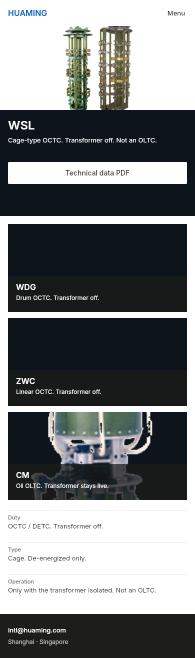
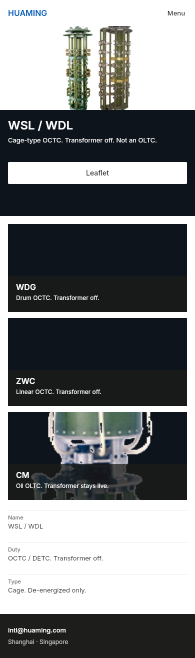
copy: WSL / WDL on the type page; CTA Leaflet
Cycle-8 390 pass. WSL file is a leaflet, not technical data.
More 390 list adds ZWC and SHM-D.

diff --git a/sketches/mr-openpencil-2026-08-19/reviews/cycle-8-ux.md b/sketches/mr-openpencil-2026-08-19/reviews/cycle-8-ux.md
@@ -1,0 +1,33 @@
+# Cycle 8 — UX
+
+Vs LOOP lock: chrome → stage (photo or dark band, type bottom-left, one CTA) → photo teasers (full-bleed + shade or empty dark band) → list last. Veto polaroid. Veto white + H1 + table.
+
+Read: remaining 390s + WSL desk. WSL CTA is Leaflet (`WSL-Leaflet.pdf`). Contact 390: form is the action, no stage button. WDG / ZWC and SHM-D / SHM-X empty dark on purpose.
+
+## Must-fix
+
+None. Every 390 has a stage. Teasers are full-bleed + shade or empty dark, not polaroid. No white + H1 + table. List/spec after teasers.
+
+## Should-fix
+
+1. More 390 All types: six rows, stops at WDG. Desk still lists CZ, SHGV, HMDK, HWDK, ZWC, SHM-D / SHM-X / SHM-KX, ET-SZ6, HMC-3C, ZXJY. Teaser 3/4 captions some of those names; the list does not.
+
+2. Careers 390: Singapore and Write are empty dark. Legal (no still). Two of three teasers have no photo.
+
+## Pass / fail vs MR
+
+| Page | Verdict | Why |
+|------|---------|-----|
+| Home 390 | **Pass** | Photo stage, type BL, dek, one CTA (`Find a type`). Four full-bleed type teasers. |
+| Products 390 | **Pass** | Photo stage, type BL, one CTA. 4 family photoTeasers, All types last. |
+| Downloads 390 | **Pass** | Factory stage, type BL, CTA `Find a type`. 3 kind teasers, file list last. WSL row is Leaflet. |
+| Contact 390 | **Pass** | Factory stage, type BL, no stage button. 3 job photo teasers, form is the action. |
+| About 390 | **Pass** | Factory stage, type BL, one CTA. Numbers, Shanghai photo, Singapore empty dark. |
+| Careers 390 | **Pass** | Factory stage, `Work on the switch.`, one CTA. Shanghai photo; SG + Write empty dark. |
+| WSL 390 | **Pass** | Studio split (white JPEG), type, CTA Leaflet. WDG / ZWC empty dark, CM photo, spec last. |
+| WSL desk | **Pass** | Chrome, dark + white JPEG, type BL, CTA Leaflet. WDG / ZWC empty dark, CM photo, spec last. |
+| CMA7 390 | **Pass** | Cabinet stage, type BL, CTA Operating instructions. HWV photo; SHM-D / SHM-X empty dark. Spec last. |
+| CM2 390 | **Pass** | Dark product stage, type BL, one CTA, 3 sibling photos, spec last. |
+| More 390 | **Pass** | Factory stage, type BL, one CTA, 2×2 photo teasers (dry tile = factory), compact rows last. List is a stub. |
+| Learn 390 | **Pass** | Substation stage, type BL, one CTA. 3 photo teasers. 02: `CV2, CM2, SHZV, HWV. Then CM, WSL, CMA7.` |
+| Not found 390 | **Pass** | Photo stage, type BL, one CTA, three real types as photoTeaser. |

diff --git a/sketches/mr-openpencil-2026-08-19/reviews/cycle-8-copy.md b/sketches/mr-openpencil-2026-08-19/reviews/cycle-8-copy.md
@@ -1,0 +1,43 @@
+# Cycle 8 — copy
+
+WSL CTA Leaflet. 390 vs desk. Facts from `products.json` / `learn.md`.
+
+## Must-fix
+
+1. **WSL 390 never says WSL / WDL.** Desk Name row is `WSL / WDL`. Json name is WSL / WDL. 390 title is `WSL`. Spec stack is Duty / Type / Operation only (`specs.slice(0, 3)`). Products 390 still has the line; the type page does not.
+
+   Replace: H1 `WSL / WDL`. Or put Name first so the three 390 rows keep it.
+
+## Leave
+
+WSL CTA `Leaflet` on desk and 390. Not Technical data. Downloads 390 same: WSL Leaflet.
+
+WSL dek both widths: Cage-type OCTC. Transformer off. Not an OLTC. Siblings WDG drum / ZWC linear / CM oil live.
+
+CMA7 390: Motor drive unit. Accessory, not a tap changer. CTA Operating instructions. Family CMA7 · SHM-D · SHM-X. HWV sibling: on-tank vacuum, motor drive included. Downloads 390: CMA7 Operating instructions.
+
+CM2 390: vacuum CM, diverter + selector, III/II 500 A and 600 A. Current row keeps I 800 / 1200 / 1500 A. CV2 sibling selector-switch III 350 / 600. HWV 400 / 800 / 1000, drive included. No CM2 III 800 / 1000.
+
+Products 390 type lines match desk. CV2 selector-switch III 350 / 600 only. SHZV 400 / 600 / 1000. HWV on-tank 400 / 800 / 1000, drive included. WSL / WDL cage OCTC off. CMA7 do not add twice on HWV.
+
+Home 390 dek: On-load and de-energized. Vacuum and oil. One CTA Find a type. HWV on-tank, no 600.
+
+Careers 390: Work on the switch. No vacancy list. Singapore 29 April 2025.
+
+About 390: 1989, 002270.SZ 2015, 150+, 4–6 weeks. 977 Tongpu, credit code. TSX Tower A #03-13, 1 Tai Seng Ave.
+
+Contact 390: Write to intl@huaming.com. Singapore answers first. No MR footer.
+
+## Nit
+
+About 390 dek drops the legal name. Line under the HQs drops `Type-test laboratory`. Desk has both.
+
+More 390 heading `All types` is six rows. No drive, no ZWC. Dek dropped regulator / reactive. Desk lists the rest.
+
+CM2 390 dek still says `only` while Current shows I 800 / 1200 / 1500 A. Same dek on desk.
+
+WSL 390 drops Also (WDG · ZWC). Sibling cards already say it.
+
+Home 390 CV2 / CM2 drop `only`. Fine.
+
+Downloads 390 hides filenames. Kind labels are enough.

diff --git a/docs/DRAFT-STATUS.md b/docs/DRAFT-STATUS.md
@@ -1,9 +1,9 @@
 # Huaming EN OpenPencil draft — status
 
-Updated: 2026-08-20 03:48 +08  
+Updated: 2026-08-20 03:58 +08  
 Hard stop: **2026-08-20 07:00 +08**
 
-Queue **done** (slices 0–13). Scheduler may still fire for nits; do not recode Next.js. If past 07:00, stop.
+Queue **done** (slices 0–14). Scheduler may still fire for nits; do not recode Next.js. If past 07:00, stop.
 
 ## Where
 
@@ -27,6 +27,7 @@ Home (+390), Products, Downloads, About, Contact, Projects, News, Careers, Learn
 - Cycle 5: search field; studio split (full-height right JPEG); sibling **photo tiles**; Singapore HQ **dark band** (no fake office); WSL teasers WDG / ZWC / CM; CMA7 teasers HWV / SHM-D / SHM-X. No must-fix.
 - Cycle 6: leftover polaroid rows → photoTeaser (Home impulses/TYPES, About HQ, Projects, News, Careers, Learn). 404 390. CV2 390 siblings. No must-fix. Applied About CTA, Careers Write dark band, Learn dek, CV2 siteFoot.
 - Cycle 7: Home 390 dek; Learn 02 names CM / WSL / CMA7. No must-fix.
+- Cycle 8: remaining 390s. UX/industrial no must-fix. Copy: WSL 390 now H1 `WSL / WDL`. CTA Leaflet.
 
 ## Slice 8 (03:03)
 
@@ -51,6 +52,10 @@ Home stage is one CTA: Find a type. Downloads stays in the utility bar.
 ## Slice 13 (03:47)
 
 Home 390 stage has a dek under the title. Learn 02 names CM / WSL / CMA7 after the vacuum starters. Cycle-7 no must-fix. Applied: Downloads stage CTA; Products SHZV = vacuum CMD, WSL / WDL; More dry tile uses factory not Longdong; Careers 390 title matches desk (“Work on the switch.”).
+
+## Slice 14 (03:58)
+
+Exported remaining 390s. WSL CTA is Leaflet (`WSL-Leaflet.pdf`). Cycle-8 copy must-fix: type page H1 is `WSL / WDL`. More 390 list adds ZWC and SHM-D.
 
 ## Still open (not blocking the draft)
 

diff --git a/sketches/mr-openpencil-2026-08-19/reviews/cycle-8-industrial.md b/sketches/mr-openpencil-2026-08-19/reviews/cycle-8-industrial.md
@@ -1,0 +1,25 @@
+# Cycle 8 — industrial
+
+390 frames + WSL CTA vs `products.json`.
+
+## Must-fix
+
+None.
+
+No CV2-500. No CM2 III 800/1000. No HWV-600. WSL CTA is Leaflet (`WSL-Leaflet.pdf`), not a technical-data PDF. CMA7 grey is paint. Empty dark WDG / ZWC / SHM-D / SHM-X is legal.
+
+## Leave
+
+WSL desk + 390: cage OCTC, transformer off, not an OLTC. CTA Leaflet. Name WSL / WDL on desk spec (390 drops that row; title stays WSL). WDG drum / ZWC linear dark. CM contrast only — oil OLTC, transformer stays live. No amps.
+
+CMA7 390: MDU. CTA Operating instructions (`MDU-CMA7-OM`). Family CMA7 · SHM-D · SHM-X. HWV teaser: drive included, not a second SKU. Grey cabinet is paint.
+
+CM2 390: vacuum CM. Dek III/II 500 A and 600 A only. Current adds I 800 / 1200 / 1500 A. Um 72.5 / 126 / 170 / 252 kV. CV2 sibling III 350 A and 600 A only. SHZV is vacuum CMD when CM2 current does not cover. HWV 400 / 800 / 1000 A, drive included.
+
+Home 390: CV2 III 350 / 600 A; CM2 III/II 500 / 600 A; SHZV vacuum CMD 400 / 600 / 1000 A; HWV on-tank 400 / 800 / 1000 A, drive included. Not Horizontal.
+
+Products 390: Vacuum OLTC CV2 · CM2 · SHZV · HWV; Oil CM · CMD · CV; OCTC cage/drum/linear, transformer off; Motor drive CMA7 · SHM-D, accessory. All-types lines match. WSL / WDL cage OCTC. CMA7 do not add twice on HWV. CM index III 500 / 600 A (I currents stay on the CM spec).
+
+Downloads 390: WSL Leaflet. CMA7 Operating instructions. CV2 TD / leaflet / OI. HWV Technical data.
+
+More 390: OCTC tile WDG · ZWC, not SHM-D. List is six rows (CMD, CV, SHZVG, CHVT, CVT, WDG). One-liners that show match. Desk has CZ, SHGV, HMDK, HWDK, ZWC, drives.

diff --git a/sketches/mr-openpencil-2026-08-19/LOOP.md b/sketches/mr-openpencil-2026-08-19/LOOP.md
@@ -52,6 +52,7 @@ Refuse: MR red, MR mark, MR sentences, cream paper, serif kickers.
 | 11 | Copy: no fake vacancies | done 2026-08-20 03:35. Home careers CTA “Write to us”, not Open roles. Impulse title On-load or off (OLTC vs OCTC). |
 | 12 | Home stage one CTA | done 2026-08-20 03:38. Dropped ghost “Download brochures”. Downloads stays in utility + later band. |
 | 13 | Home 390 dek + Learn 02 | done 2026-08-20 03:47. Home 390 dek. Learn 02 names CM / WSL / CMA7. Cycle-7 no must-fix. Applied: Downloads stage CTA; Products SHZV/WSL lines; More dry tile = factory; Careers 390 drops “inside the transformer”. |
+| 14 | 390 pass + WSL Leaflet | done 2026-08-20 03:58. WSL CTA Leaflet. Cycle-8 copy must-fix: H1 WSL / WDL. More 390 adds ZWC / SHM-D. |
 
 ## Do not
 
